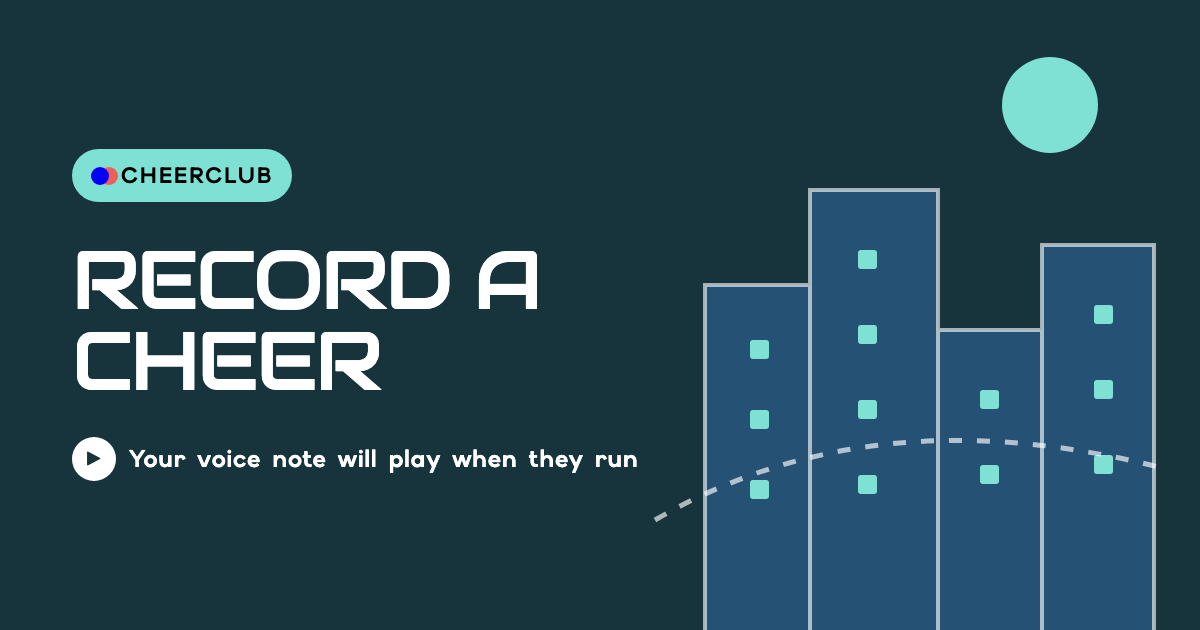
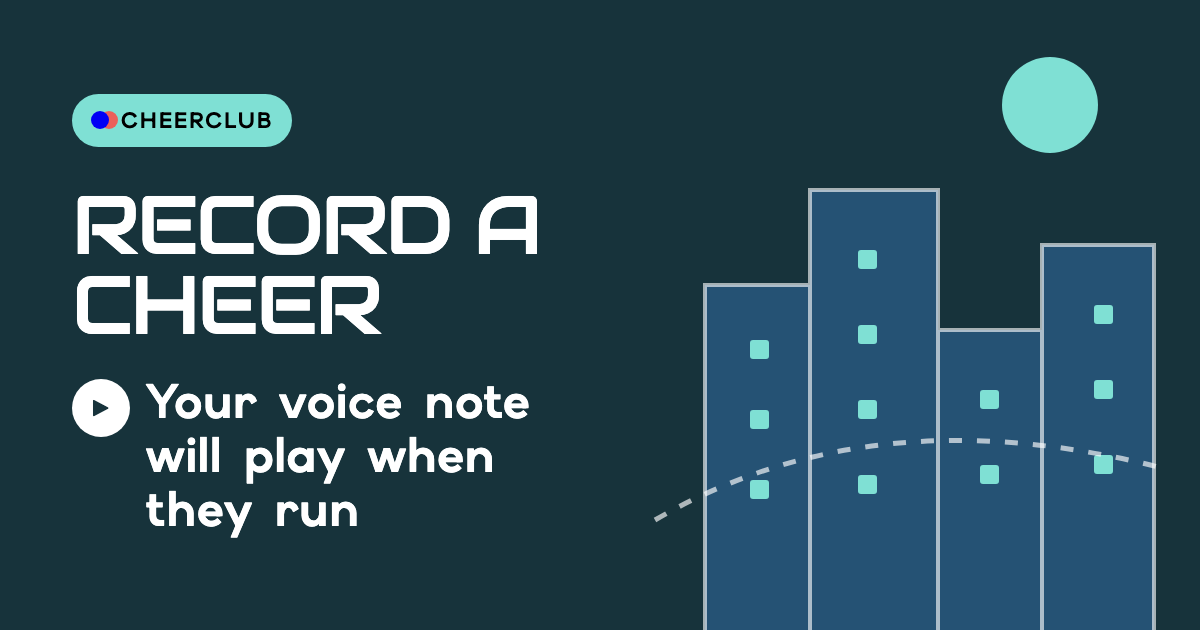
Make iMessage preview prompt text larger
Enlarge the voice-note line on share-card thumbnails so it stays readable in Messages.

Changed region(s): [[0.0617, 0.1508, 0.5242, 0.8444]]

diff --git a/share/confetti.html b/share/confetti.html
@@ -8,11 +8,11 @@
   <meta property="og:title" content="CheerClub - Fuel Your Run" />
   <meta property="og:description" content="Your voice note will play when they run" />
   <meta property="og:type" content="website" />
-  <meta property="og:image" content="https://cheerclub.app/og/confetti.png?v=8" />
+  <meta property="og:image" content="https://cheerclub.app/og/confetti.png?v=9" />
   <meta property="og:image:width" content="1200" />
   <meta property="og:image:height" content="630" />
   <meta name="twitter:card" content="summary_large_image" />
-  <meta name="twitter:image" content="https://cheerclub.app/og/confetti.png?v=8" />
+  <meta name="twitter:image" content="https://cheerclub.app/og/confetti.png?v=9" />
   <script>
     (function () {
       var token = new URLSearchParams(location.search).get("t");

diff --git a/share/marathon.html b/share/marathon.html
@@ -8,11 +8,11 @@
   <meta property="og:title" content="CheerClub - Fuel Your Run" />
   <meta property="og:description" content="Your voice note will play when they run" />
   <meta property="og:type" content="website" />
-  <meta property="og:image" content="https://cheerclub.app/og/marathon.png?v=8" />
+  <meta property="og:image" content="https://cheerclub.app/og/marathon.png?v=9" />
   <meta property="og:image:width" content="1200" />
   <meta property="og:image:height" content="630" />
   <meta name="twitter:card" content="summary_large_image" />
-  <meta name="twitter:image" content="https://cheerclub.app/og/marathon.png?v=8" />
+  <meta name="twitter:image" content="https://cheerclub.app/og/marathon.png?v=9" />
   <script>
     (function () {
       var token = new URLSearchParams(location.search).get("t");

diff --git a/share/midnight.html b/share/midnight.html
@@ -8,11 +8,11 @@
   <meta property="og:title" content="CheerClub - Fuel Your Run" />
   <meta property="og:description" content="Your voice note will play when they run" />
   <meta property="og:type" content="website" />
-  <meta property="og:image" content="https://cheerclub.app/og/midnight.png?v=8" />
+  <meta property="og:image" content="https://cheerclub.app/og/midnight.png?v=9" />
   <meta property="og:image:width" content="1200" />
   <meta property="og:image:height" content="630" />
   <meta name="twitter:card" content="summary_large_image" />
-  <meta name="twitter:image" content="https://cheerclub.app/og/midnight.png?v=8" />
+  <meta name="twitter:image" content="https://cheerclub.app/og/midnight.png?v=9" />
   <script>
     (function () {
       var token = new URLSearchParams(location.search).get("t");

diff --git a/share/raceday.html b/share/raceday.html
@@ -8,11 +8,11 @@
   <meta property="og:title" content="CheerClub - Fuel Your Run" />
   <meta property="og:description" content="Your voice note will play when they run" />
   <meta property="og:type" content="website" />
-  <meta property="og:image" content="https://cheerclub.app/og/raceday.png?v=8" />
+  <meta property="og:image" content="https://cheerclub.app/og/raceday.png?v=9" />
   <meta property="og:image:width" content="1200" />
   <meta property="og:image:height" content="630" />
   <meta name="twitter:card" content="summary_large_image" />
-  <meta name="twitter:image" content="https://cheerclub.app/og/raceday.png?v=8" />
+  <meta name="twitter:image" content="https://cheerclub.app/og/raceday.png?v=9" />
   <script>
     (function () {
       var token = new URLSearchParams(location.search).get("t");

diff --git a/share/streets.html b/share/streets.html
@@ -8,11 +8,11 @@
   <meta property="og:title" content="CheerClub - Fuel Your Run" />
   <meta property="og:description" content="Your voice note will play when they run" />
   <meta property="og:type" content="website" />
-  <meta property="og:image" content="https://cheerclub.app/og/streets.png?v=8" />
+  <meta property="og:image" content="https://cheerclub.app/og/streets.png?v=9" />
   <meta property="og:image:width" content="1200" />
   <meta property="og:image:height" content="630" />
   <meta name="twitter:card" content="summary_large_image" />
-  <meta name="twitter:image" content="https://cheerclub.app/og/streets.png?v=8" />
+  <meta name="twitter:image" content="https://cheerclub.app/og/streets.png?v=9" />
   <script>
     (function () {
       var token = new URLSearchParams(location.search).get("t");

diff --git a/share/sunset.html b/share/sunset.html
@@ -8,11 +8,11 @@
   <meta property="og:title" content="CheerClub - Fuel Your Run" />
   <meta property="og:description" content="Your voice note will play when they run" />
   <meta property="og:type" content="website" />
-  <meta property="og:image" content="https://cheerclub.app/og/sunset.png?v=8" />
+  <meta property="og:image" content="https://cheerclub.app/og/sunset.png?v=9" />
   <meta property="og:image:width" content="1200" />
   <meta property="og:image:height" content="630" />
   <meta name="twitter:card" content="summary_large_image" />
-  <meta name="twitter:image" content="https://cheerclub.app/og/sunset.png?v=8" />
+  <meta name="twitter:image" content="https://cheerclub.app/og/sunset.png?v=9" />
   <script>
     (function () {
       var token = new URLSearchParams(location.search).get("t");

diff --git a/share/tempo.html b/share/tempo.html
@@ -8,11 +8,11 @@
   <meta property="og:title" content="CheerClub - Fuel Your Run" />
   <meta property="og:description" content="Your voice note will play when they run" />
   <meta property="og:type" content="website" />
-  <meta property="og:image" content="https://cheerclub.app/og/tempo.png?v=8" />
+  <meta property="og:image" content="https://cheerclub.app/og/tempo.png?v=9" />
   <meta property="og:image:width" content="1200" />
   <meta property="og:image:height" content="630" />
   <meta name="twitter:card" content="summary_large_image" />
-  <meta name="twitter:image" content="https://cheerclub.app/og/tempo.png?v=8" />
+  <meta name="twitter:image" content="https://cheerclub.app/og/tempo.png?v=9" />
   <script>
     (function () {
       var token = new URLSearchParams(location.search).get("t");

diff --git a/share/track.html b/share/track.html
@@ -8,11 +8,11 @@
   <meta property="og:title" content="CheerClub - Fuel Your Run" />
   <meta property="og:description" content="Your voice note will play when they run" />
   <meta property="og:type" content="website" />
-  <meta property="og:image" content="https://cheerclub.app/og/track.png?v=8" />
+  <meta property="og:image" content="https://cheerclub.app/og/track.png?v=9" />
   <meta property="og:image:width" content="1200" />
   <meta property="og:image:height" content="630" />
   <meta name="twitter:card" content="summary_large_image" />
-  <meta name="twitter:image" content="https://cheerclub.app/og/track.png?v=8" />
+  <meta name="twitter:image" content="https://cheerclub.app/og/track.png?v=9" />
   <script>
     (function () {
       var token = new URLSearchParams(location.search).get("t");

diff --git a/share/trail.html b/share/trail.html
@@ -8,11 +8,11 @@
   <meta property="og:title" content="CheerClub - Fuel Your Run" />
   <meta property="og:description" content="Your voice note will play when they run" />
   <meta property="og:type" content="website" />
-  <meta property="og:image" content="https://cheerclub.app/og/trail.png?v=8" />
+  <meta property="og:image" content="https://cheerclub.app/og/trail.png?v=9" />
   <meta property="og:image:width" content="1200" />
   <meta property="og:image:height" content="630" />
   <meta name="twitter:card" content="summary_large_image" />
-  <meta name="twitter:image" content="https://cheerclub.app/og/trail.png?v=8" />
+  <meta name="twitter:image" content="https://cheerclub.app/og/trail.png?v=9" />
   <script>
     (function () {
       var token = new URLSearchParams(location.search).get("t");

diff --git a/share/city.html b/share/city.html
@@ -8,11 +8,11 @@
   <meta property="og:title" content="CheerClub - Fuel Your Run" />
   <meta property="og:description" content="Your voice note will play when they run" />
   <meta property="og:type" content="website" />
-  <meta property="og:image" content="https://cheerclub.app/og/city.png?v=8" />
+  <meta property="og:image" content="https://cheerclub.app/og/city.png?v=9" />
   <meta property="og:image:width" content="1200" />
   <meta property="og:image:height" content="630" />
   <meta name="twitter:card" content="summary_large_image" />
-  <meta name="twitter:image" content="https://cheerclub.app/og/city.png?v=8" />
+  <meta name="twitter:image" content="https://cheerclub.app/og/city.png?v=9" />
   <script>
     (function () {
       var token = new URLSearchParams(location.search).get("t");

diff --git a/share/dawn.html b/share/dawn.html
@@ -8,11 +8,11 @@
   <meta property="og:title" content="CheerClub - Fuel Your Run" />
   <meta property="og:description" content="Your voice note will play when they run" />
   <meta property="og:type" content="website" />
-  <meta property="og:image" content="https://cheerclub.app/og/dawn.png?v=8" />
+  <meta property="og:image" content="https://cheerclub.app/og/dawn.png?v=9" />
   <meta property="og:image:width" content="1200" />
   <meta property="og:image:height" content="630" />
   <meta name="twitter:card" content="summary_large_image" />
-  <meta name="twitter:image" content="https://cheerclub.app/og/dawn.png?v=8" />
+  <meta name="twitter:image" content="https://cheerclub.app/og/dawn.png?v=9" />
   <script>
     (function () {
       var token = new URLSearchParams(location.search).get("t");

diff --git a/share/park.html b/share/park.html
@@ -8,11 +8,11 @@
   <meta property="og:title" content="CheerClub - Fuel Your Run" />
   <meta property="og:description" content="Your voice note will play when they run" />
   <meta property="og:type" content="website" />
-  <meta property="og:image" content="https://cheerclub.app/og/park.png?v=8" />
+  <meta property="og:image" content="https://cheerclub.app/og/park.png?v=9" />
   <meta property="og:image:width" content="1200" />
   <meta property="og:image:height" content="630" />
   <meta name="twitter:card" content="summary_large_image" />
-  <meta name="twitter:image" content="https://cheerclub.app/og/park.png?v=8" />
+  <meta name="twitter:image" content="https://cheerclub.app/og/park.png?v=9" />
   <script>
     (function () {
       var token = new URLSearchParams(location.search).get("t");
